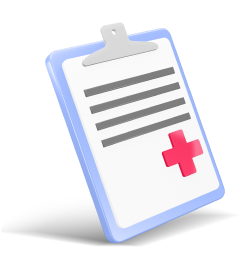
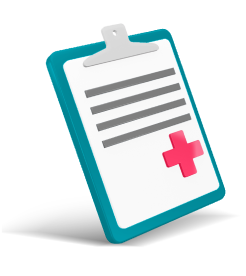
Update WelcomeScreen according to the new specs

Changed region(s): [[0.1707, 0.087, 0.939, 0.8986], [0.7398, 0.6377, 0.7683, 0.6667], [0.4553, 0.087, 0.4837, 0.1159]]

diff --git a/src/pages/FirstView/components/WelcomeView.jsx b/src/pages/FirstView/components/WelcomeView.jsx
@@ -21,13 +21,13 @@ export default function WelcomeView({ onAddTest }) {
         </View>
         <View className="w-46 mb-8">
           <Text className="text-5xl font-bold text-amaranth">
-            Your{'\r\n'}Medical{'\r\n'}
-            <Text className="text-black">Records</Text>
+            Your{'\r\n'}Test{'\r\n'}
+            <Text className="text-black">Results</Text>
           </Text>
         </View>
       </View>
       <TouchableOpacity
-        className="bg-cornflower rounded-lg px-6"
+        className="bg-pacific-blue rounded-2xl px-6"
         onPress={onAddTest}
       >
         <View className="flex flex-row justify-between items-center h-14">

diff --git a/tailwind.config.js b/tailwind.config.js
@@ -10,6 +10,9 @@ module.exports = {
         cornflower: {
           DEFAULT: '#9BB0E9',
         },
+        'pacific-blue': {
+          DEFAULT: '#00AEC1',
+        },
         seashell: {
           DEFAULT: '#F1F1F1',
         },

diff --git a/src/pages/PageBase/PageBase.jsx b/src/pages/PageBase/PageBase.jsx
@@ -33,8 +33,8 @@ function BackButton({ navigate, backLink }) {
 
 const styles = StyleSheet.create({
   logo: {
-    width: 130,
-    height: 28,
+    width: 115,
+    height: 44,
   },
 });
 
